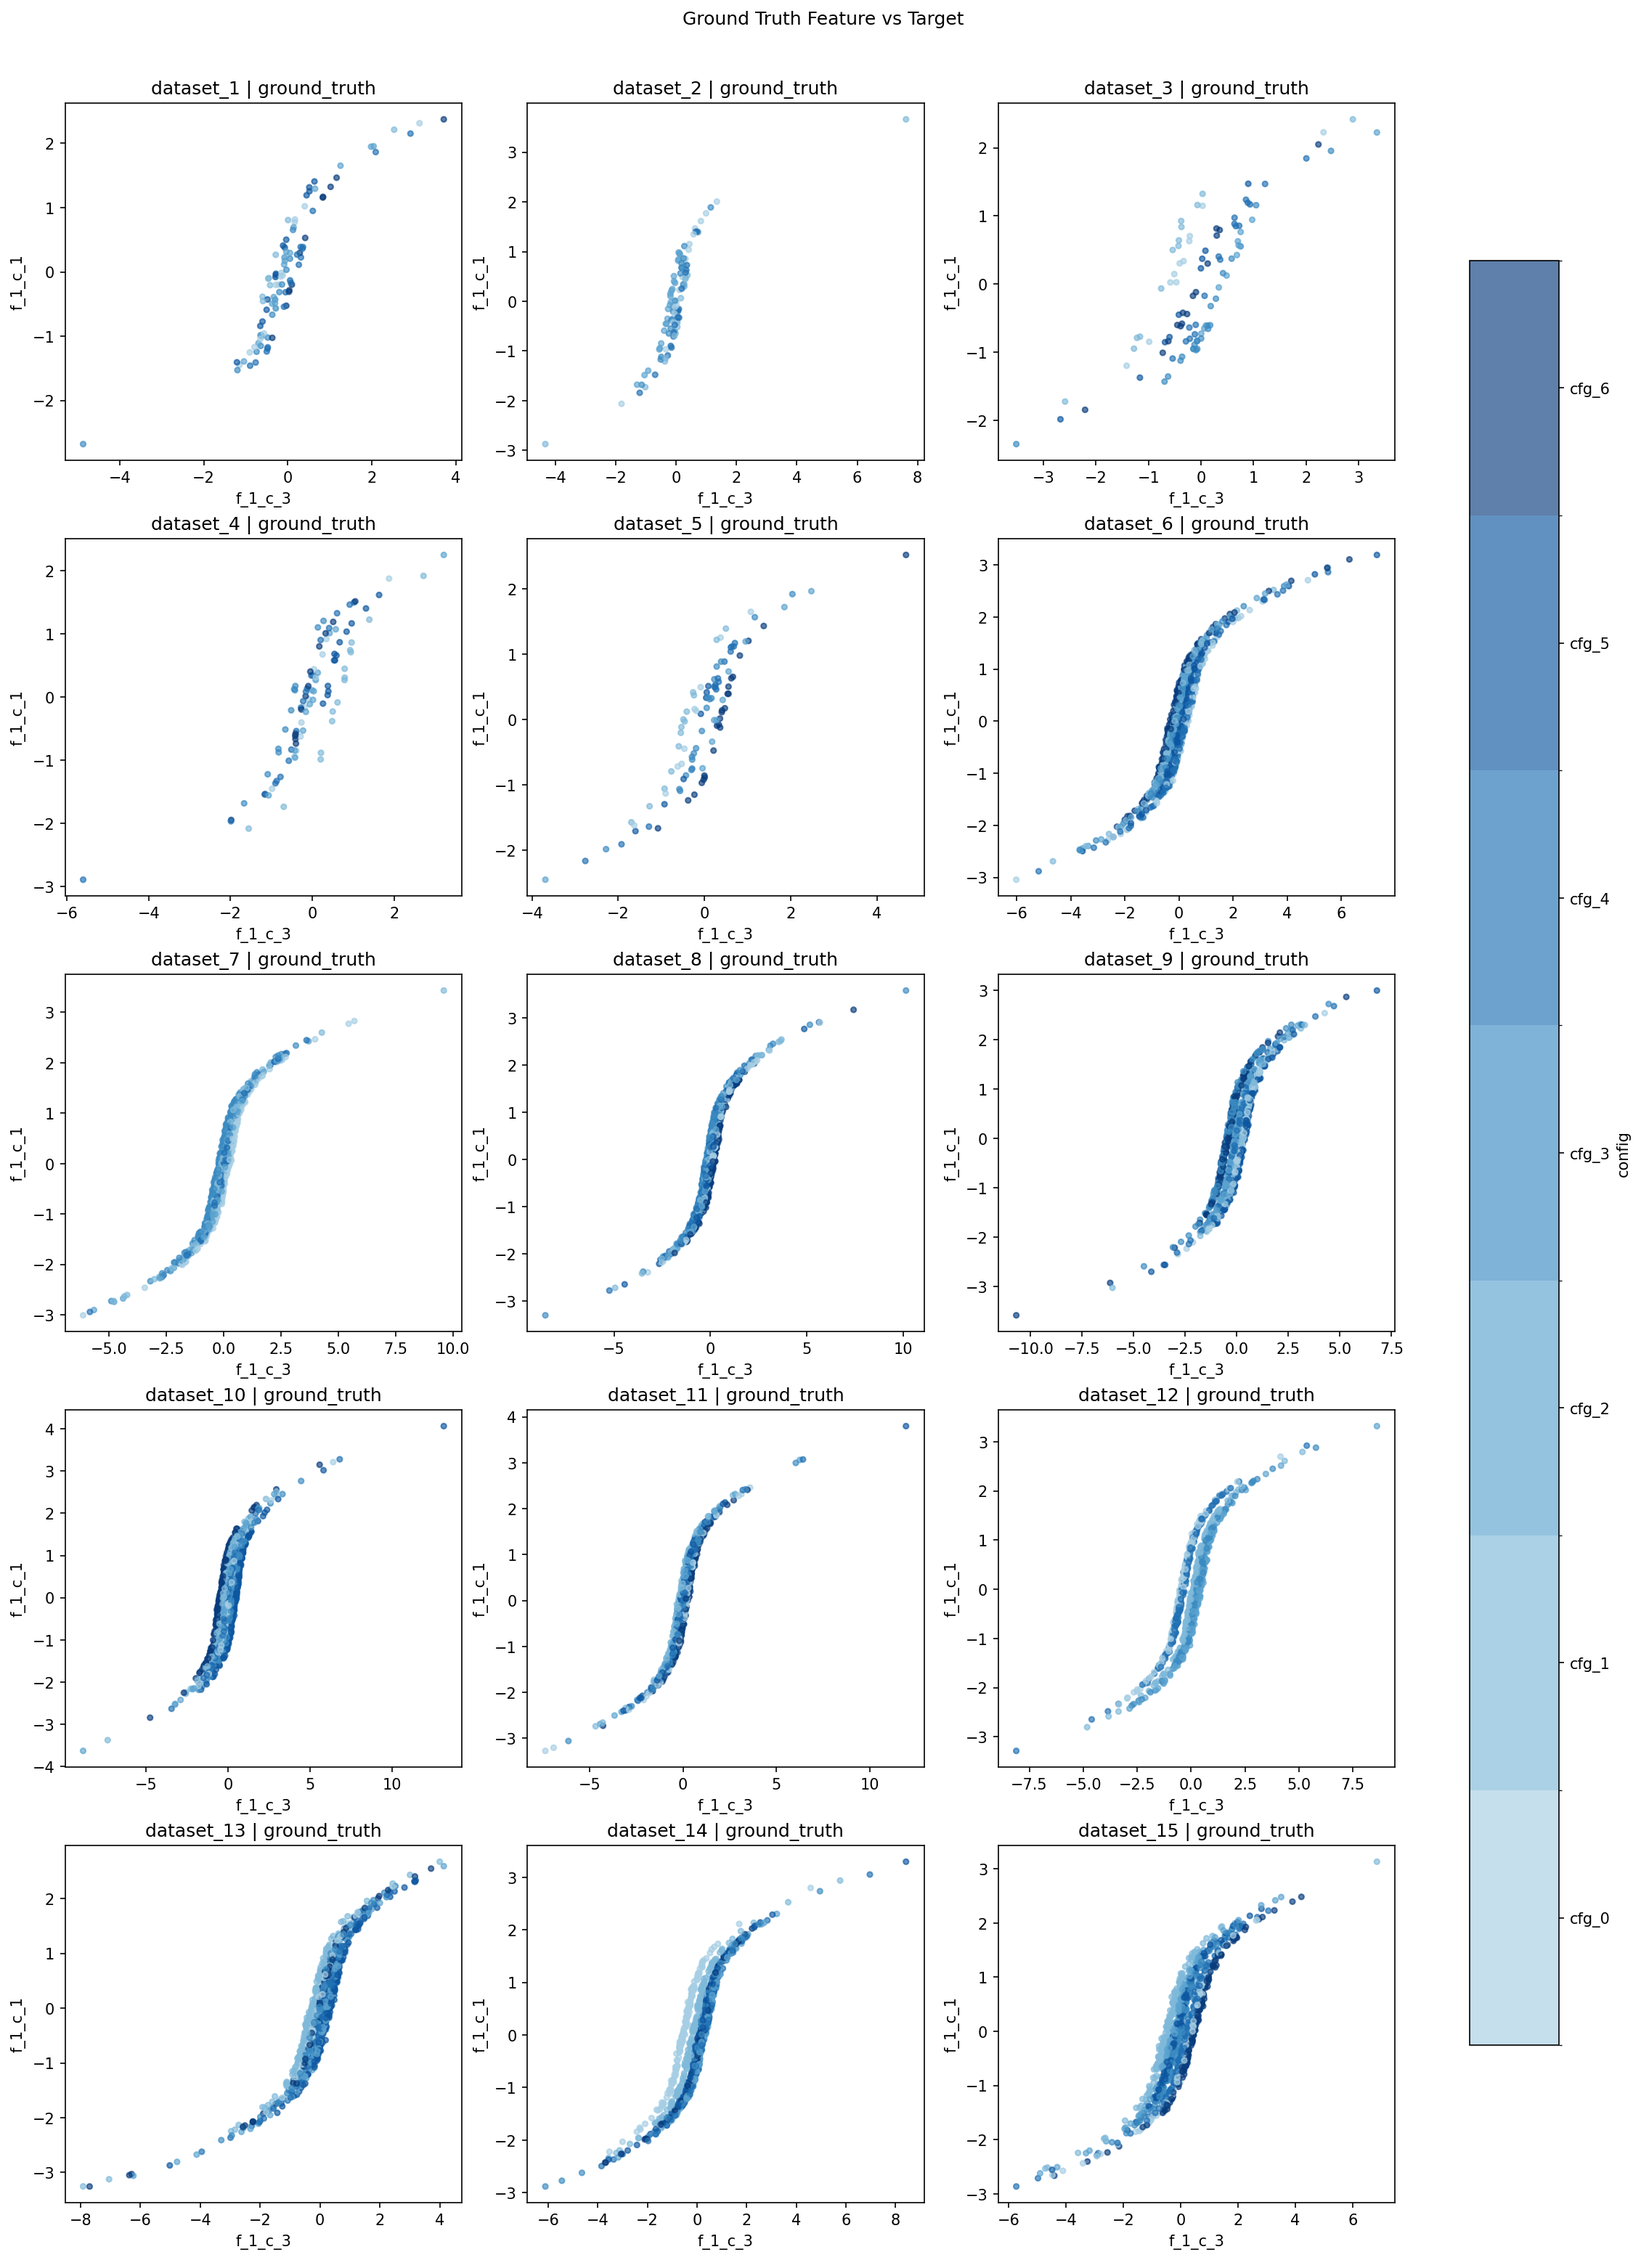
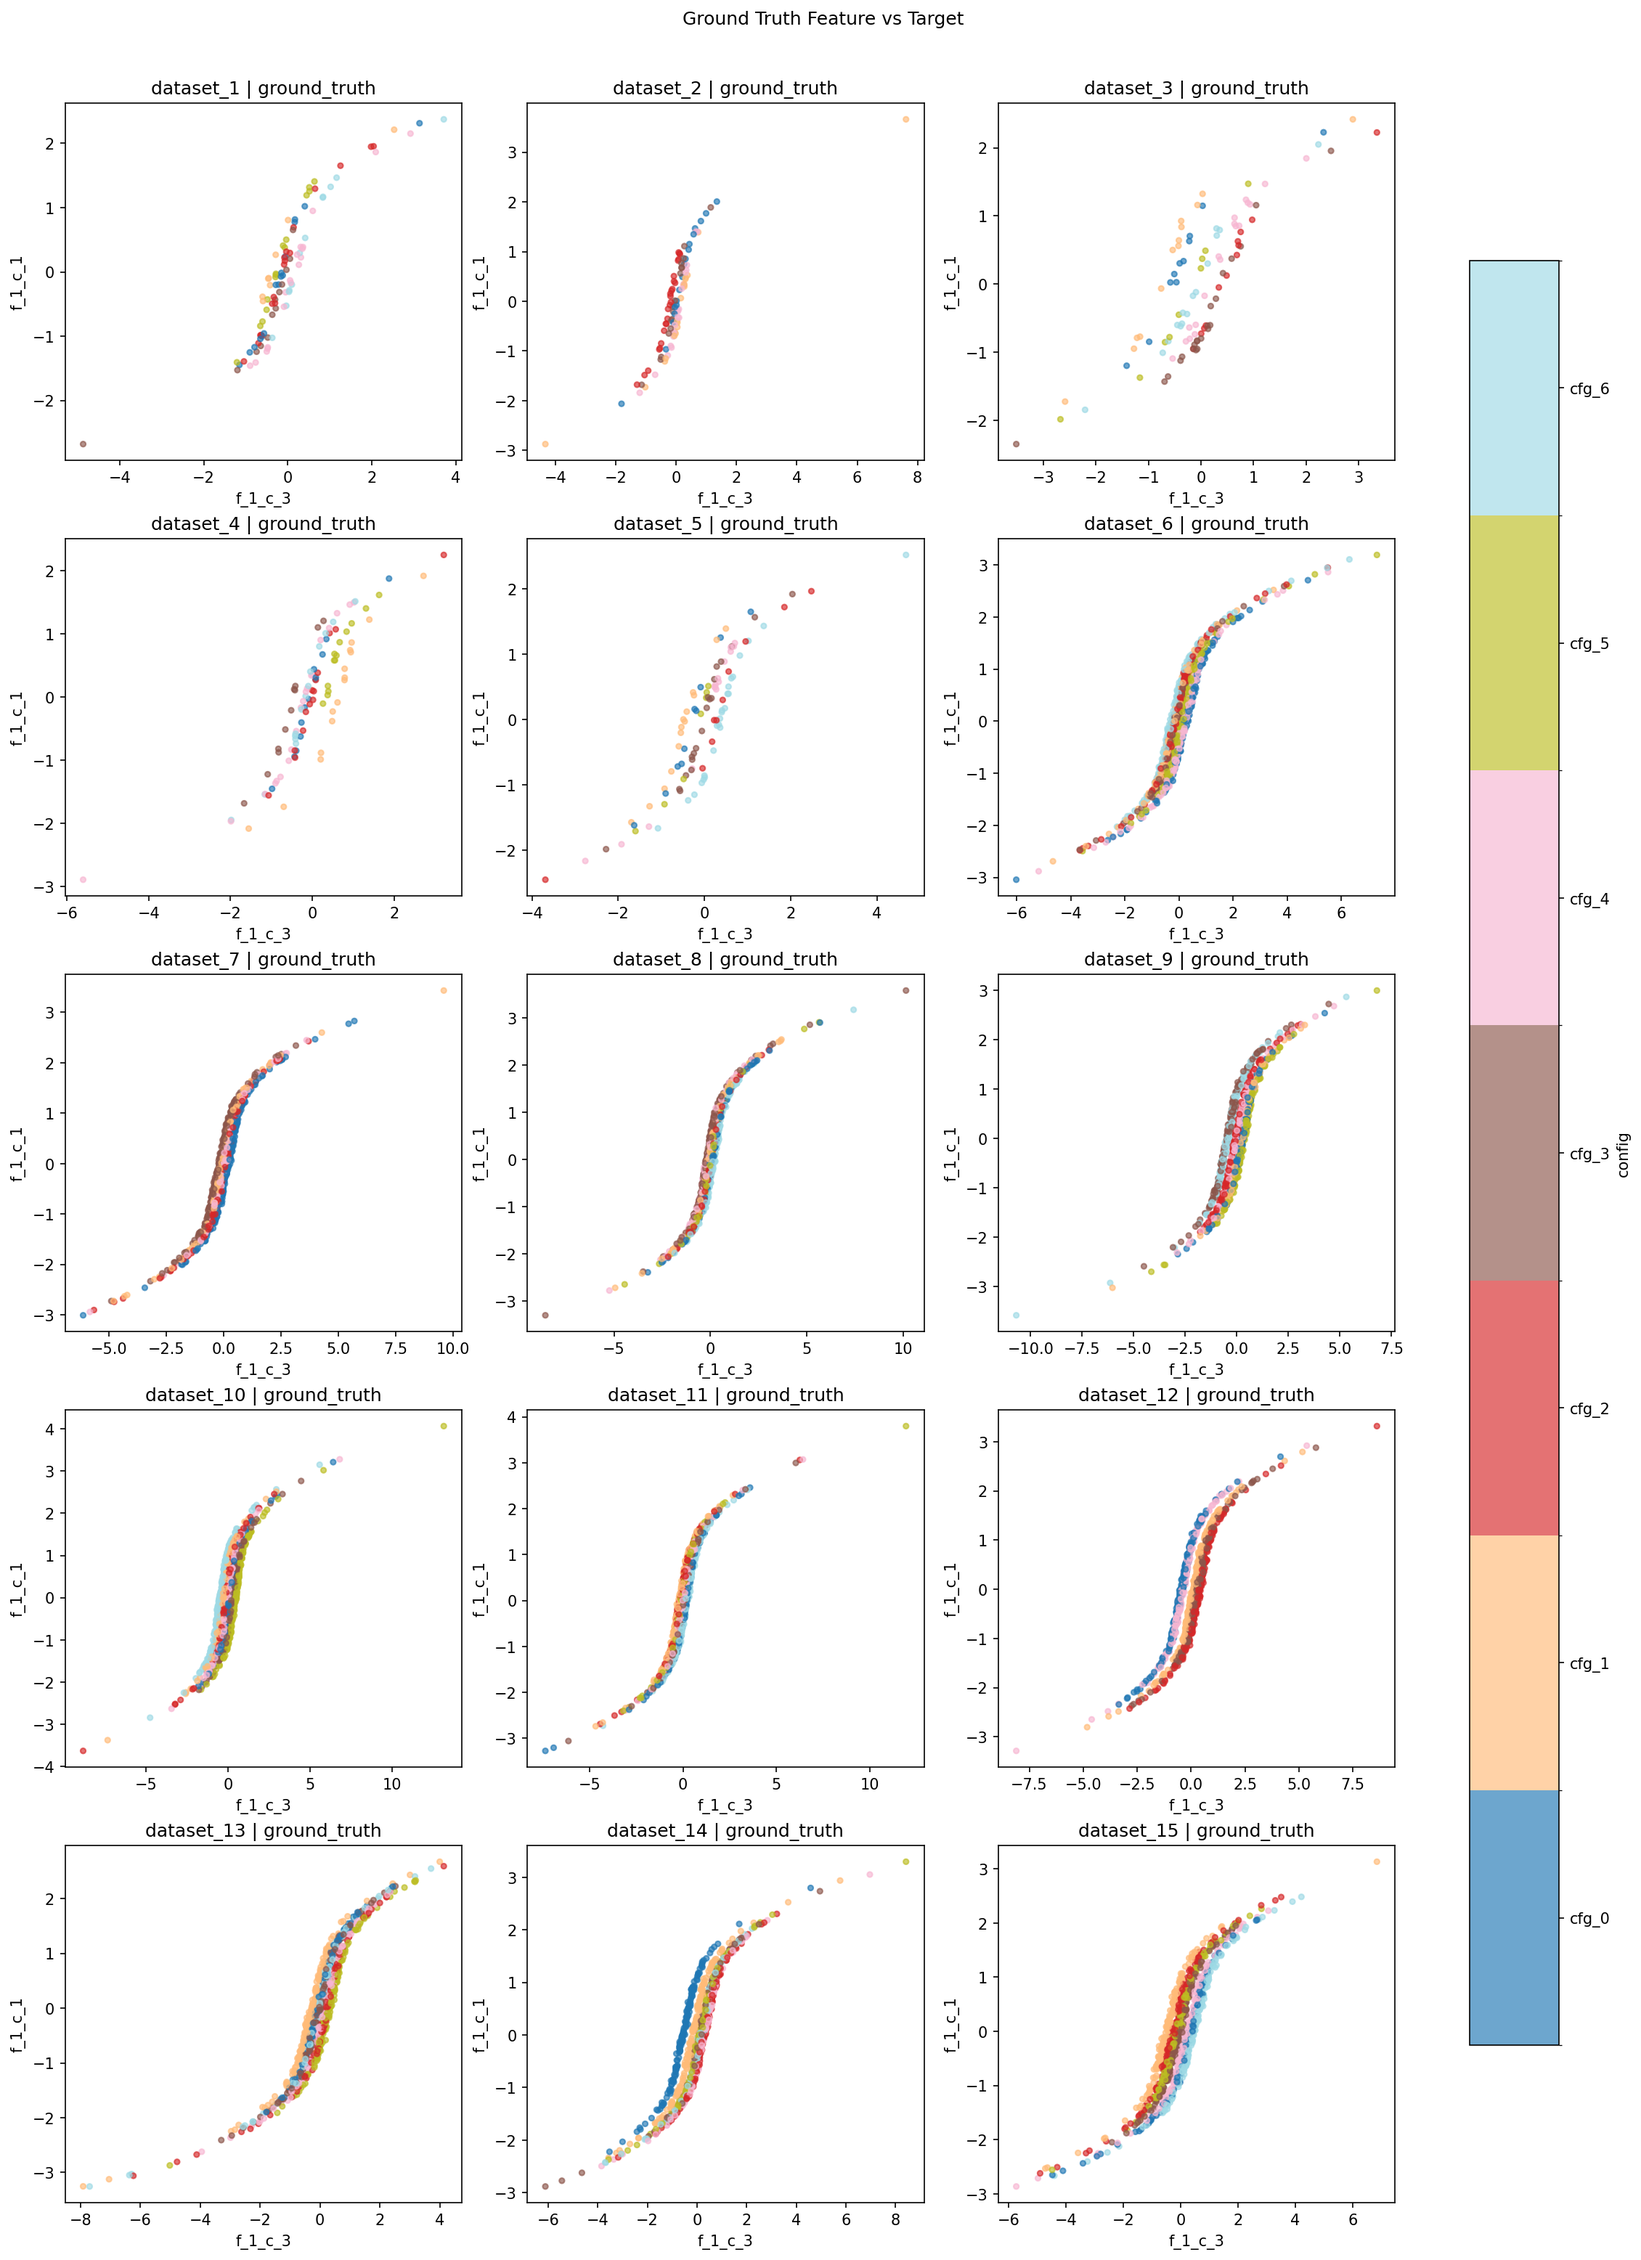
Improve config color separation in visualization and sync VISUAL.md

diff --git a/visualize_results.py b/visualize_results.py
@@ -66,7 +66,17 @@ def _build_config_style(
         all_labels.update(df["config"].astype(str).unique().tolist())
     config_labels = sorted(all_labels)
     config_to_idx = {cfg: idx for idx, cfg in enumerate(config_labels)}
-    config_cmap = ListedColormap(plt.cm.Blues(np.linspace(0.35, 0.95, len(config_labels))))
+
+    # Use a qualitative palette so neighboring config labels are easier to distinguish.
+    base_cmap = plt.get_cmap("tab20")
+    if len(config_labels) <= base_cmap.N:
+        colors = base_cmap(np.linspace(0.0, 1.0, len(config_labels)))
+    else:
+        base_colors = base_cmap(np.linspace(0.0, 1.0, base_cmap.N))
+        repeats = int(np.ceil(len(config_labels) / base_cmap.N))
+        colors = np.vstack([base_colors for _ in range(repeats)])[: len(config_labels)]
+    config_cmap = ListedColormap(colors)
+
     config_norm = BoundaryNorm(np.arange(-0.5, len(config_labels) + 0.5, 1), config_cmap.N)
     return config_labels, config_to_idx, config_cmap, config_norm
 

diff --git a/VISUAL.md b/VISUAL.md
@@ -15,8 +15,8 @@
 ## 출력
 
 - `visuals/scatter_gt.png`
-  - 각 `dataset_id`별로 `the_ground_truth` vs `target` 산점도
-  - 점 색상: `config`
+  - 각 `dataset_id`별 `the_ground_truth` vs `target` 산점도
+  - 점 색상: `config` (기본 범주형 팔레트 `tab20`)
 - `visuals/scatter_selected.png`
   - `selected_feature != the_ground_truth`인 경우만 `selected_feature` vs `target` 산점도
   - 불일치가 없으면 안내 문구 이미지를 저장
